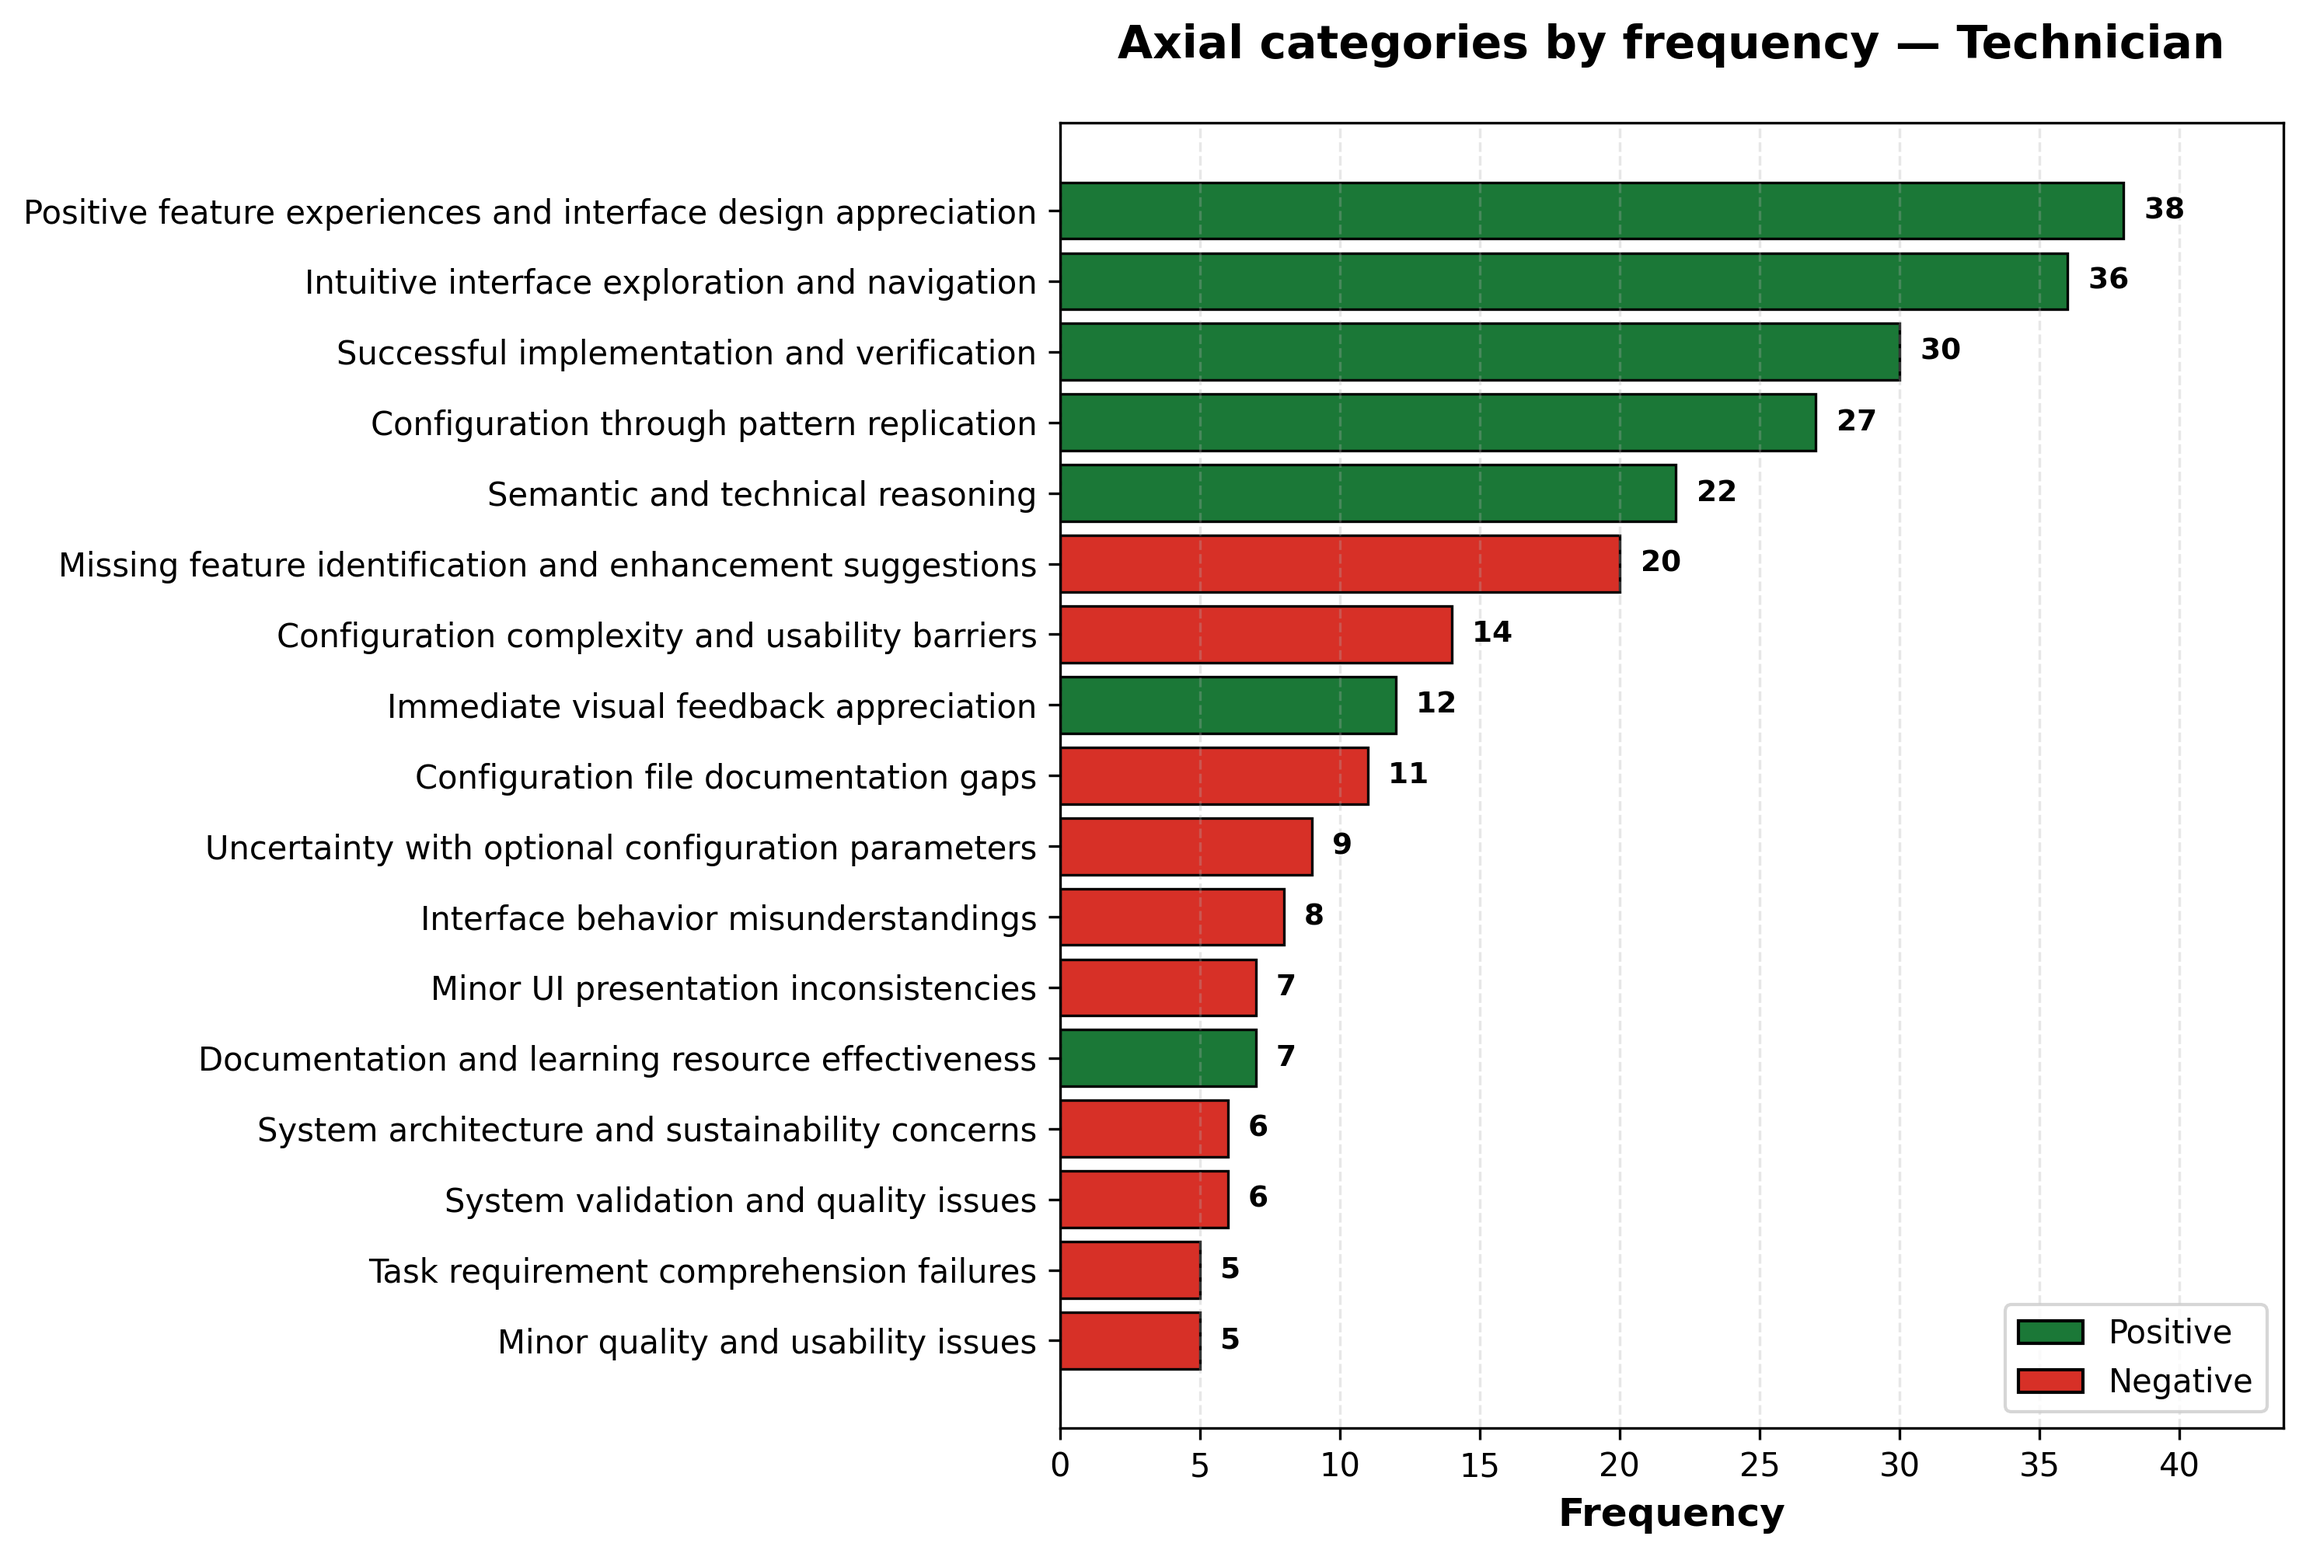
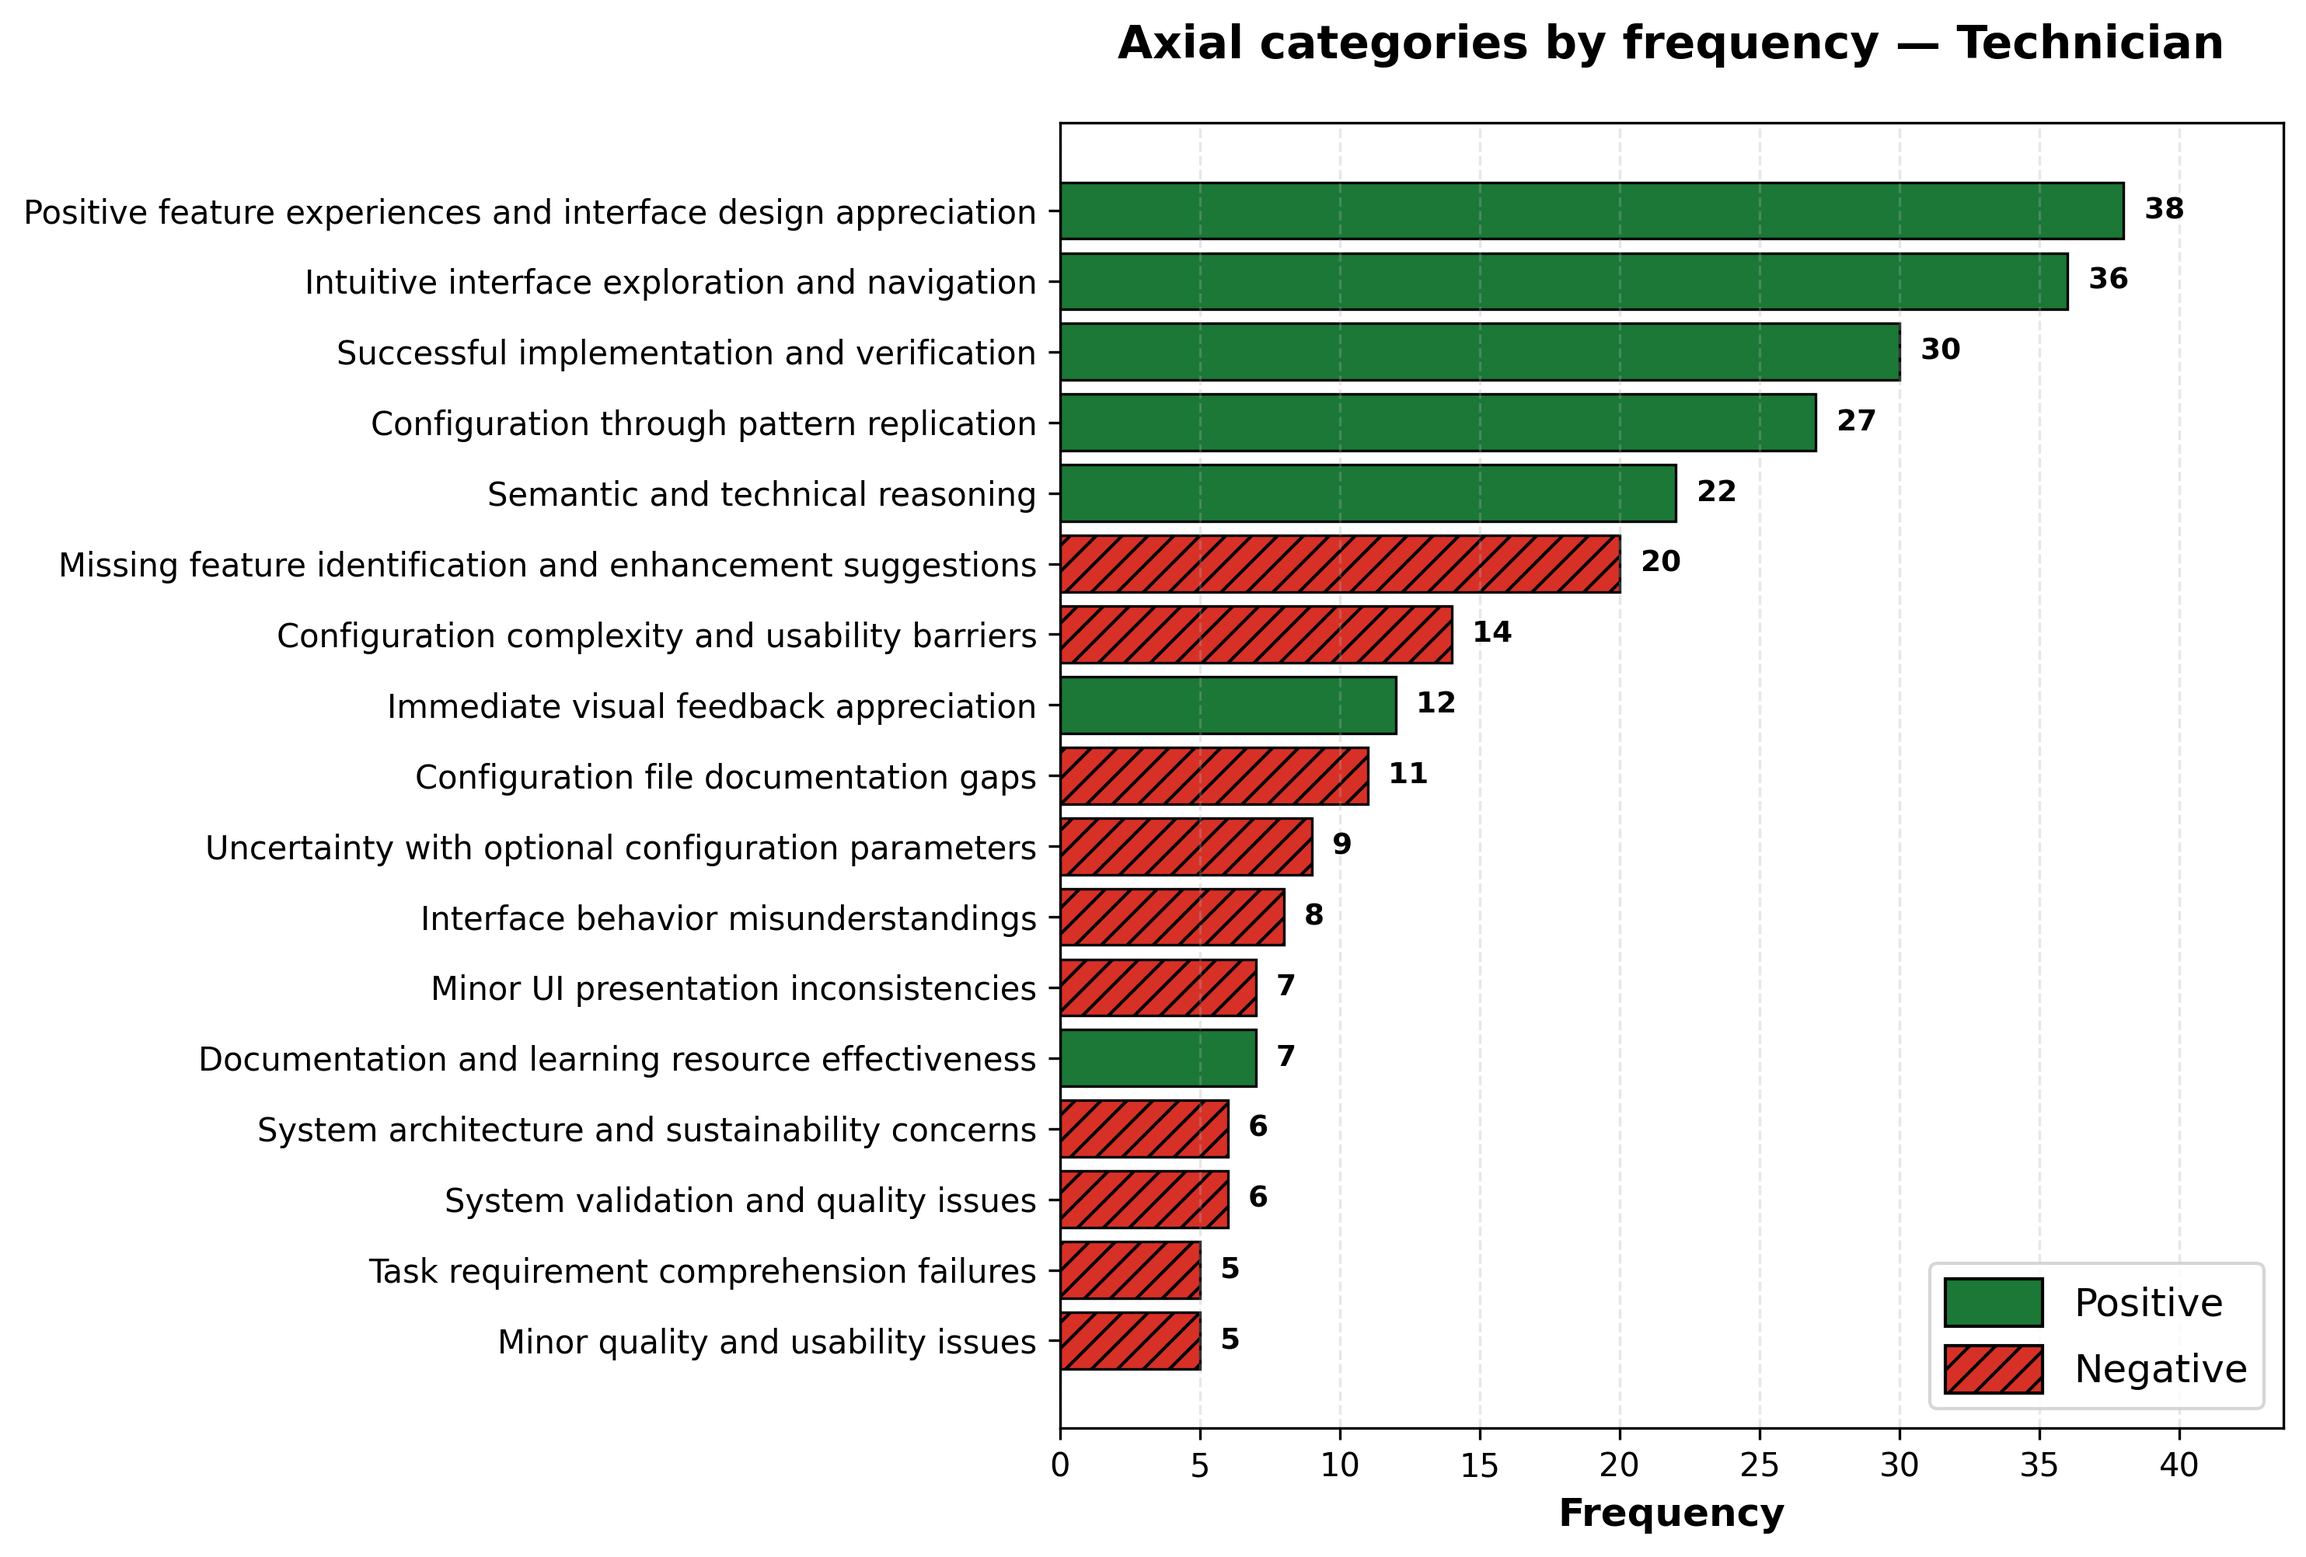
refactor(user-testing): extract plot utilities and improve B&W readability

diff --git a/user_testing/analysis_software/task_plots.py b/user_testing/analysis_software/task_plots.py
@@ -7,6 +7,7 @@ from matplotlib import patheffects as pe
 import numpy as np
 import pandas as pd
 
+from plot_utils import STATUS_COLORS, STATUS_HATCHES, STATUS_LABELS, USER_TYPE_COLORS
 from stats_utils import compact_outliers
 
 
@@ -72,30 +73,6 @@ def plot_success_rates(df: pd.DataFrame, output_dir: Path):
         return
     task_label_map = _task_key_to_label_map(df)
 
-    status_colors = {
-        'complete': '#1b7837',
-        'partial': '#fdae61',
-        'success_timeout': '#4575b4',
-        'failed_misunderstanding': '#d73027',
-        'failed_bug': '#7b3294'
-    }
-
-    status_hatches = {
-        'complete': '',
-        'partial': '///',
-        'success_timeout': '|||',
-        'failed_misunderstanding': 'xxx',
-        'failed_bug': '\\\\\\'
-    }
-
-    status_labels = {
-        'complete': 'Complete',
-        'partial': 'Partial',
-        'success_timeout': 'Success: Timeout',
-        'failed_misunderstanding': 'Failed: Misunderstanding',
-        'failed_bug': 'Failed: Bug'
-    }
-
     # Compute status counts by user_type and task_key
     group_cols = ["user_type", "task_key"]
 
@@ -148,10 +125,10 @@ def plot_success_rates(df: pd.DataFrame, output_dir: Path):
         for status in status_order:
             values = sub[status].values
             bars = ax.bar(x, values, bottom=bottom,
-                         color=status_colors[status],
-                         label=status_labels[status],
+                         color=STATUS_COLORS[status],
+                         label=STATUS_LABELS[status],
                          edgecolor='black', linewidth=1.0,
-                         hatch=status_hatches[status])
+                         hatch=STATUS_HATCHES[status])
 
             # Set hatch color to be less intrusive
             for bar in bars:
@@ -206,13 +183,6 @@ def plot_duration_distributions(df: pd.DataFrame, duration_stats: dict, output_d
     task_label_map = _task_key_to_label_map(df)
 
     user_types = sorted(duration_df['user_type'].unique().tolist())
-    n_user_types = len(user_types)
-
-    # Define colors for user types (consistent with SUS)
-    user_type_colors = {
-        'end_user': 'lightblue',
-        'technician': 'lightcoral'
-    }
 
     # Create separate figure for each user type
     for user_type in user_types:
@@ -299,7 +269,7 @@ def plot_duration_distributions(df: pd.DataFrame, duration_stats: dict, output_d
                                          markeredgecolor='black', markersize=6))
 
         # Color boxes based on user type
-        box_color = user_type_colors[user_type]
+        box_color = USER_TYPE_COLORS[user_type]
         for patch in bp['boxes']:
             patch.set_facecolor(box_color)
             patch.set_alpha(0.7)

diff --git a/user_testing/analysis_software/grounded_theory_plots.py b/user_testing/analysis_software/grounded_theory_plots.py
@@ -7,14 +7,9 @@ import matplotlib.patches as mpatches
 import matplotlib.pyplot as plt
 import pandas as pd
 
+from plot_utils import SENTIMENT_COLORS, SENTIMENT_HATCHES
+
 warnings.filterwarnings('ignore')
-
-
-# Color palettes
-SENTIMENT_COLORS = {
-    'positive': '#1b7837',  # Green
-    'negative': '#d73027'   # Red
-}
 
 
 def load_axial_codes(user_type: str, repo_root: Path) -> Dict:
@@ -64,11 +59,16 @@ def create_horizontal_bar_chart(user_type: str, repo_root: Path, output_dir: Pat
     # Create plot
     fig, ax = plt.subplots(figsize=(10, max(6, len(df) * 0.4)))
 
-    # Map sentiments to colors
+    # Map sentiments to colors and hatch patterns
     colors = [SENTIMENT_COLORS[s] for s in df['sentiment']]
+    hatches = [SENTIMENT_HATCHES[s] for s in df['sentiment']]
 
-    # Create horizontal bars
-    ax.barh(df['category'], df['frequency'], color=colors, edgecolor='black', linewidth=0.8)
+    # Create horizontal bars with hatch patterns for black & white readability
+    bars = ax.barh(df['category'], df['frequency'], color=colors, edgecolor='black', linewidth=0.8)
+
+    # Apply hatch patterns to each bar
+    for bar, hatch in zip(bars, hatches):
+        bar.set_hatch(hatch)
 
     # Add frequency labels at the end of each bar
     for i, (freq, cat) in enumerate(zip(df['frequency'], df['category'])):
@@ -83,13 +83,16 @@ def create_horizontal_bar_chart(user_type: str, repo_root: Path, output_dir: Pat
                 fontsize=14, fontweight='bold', pad=20)
     ax.grid(axis='x', alpha=0.3, linestyle='--')
 
-    # Create legend
+    # Create legend with hatch patterns for black & white readability
     legend_elements = [
-        mpatches.Patch(facecolor=SENTIMENT_COLORS['positive'], edgecolor='black', label='Positive'),
-        mpatches.Patch(facecolor=SENTIMENT_COLORS['negative'], edgecolor='black', label='Negative'),
+        mpatches.Patch(facecolor=SENTIMENT_COLORS['positive'], edgecolor='black',
+                      hatch=SENTIMENT_HATCHES['positive'], label='Positive'),
+        mpatches.Patch(facecolor=SENTIMENT_COLORS['negative'], edgecolor='black',
+                      hatch=SENTIMENT_HATCHES['negative'], label='Negative'),
     ]
 
-    ax.legend(handles=legend_elements, loc='lower right', frameon=True, fontsize=10)
+    ax.legend(handles=legend_elements, loc='lower right', frameon=True, fontsize=12,
+             handlelength=2.5, handleheight=1.5)
 
     plt.tight_layout()
     output_file = output_dir / f'{user_type}_axial_categories.png'

diff --git a/user_testing/analysis_software/plot_utils.py b/user_testing/analysis_software/plot_utils.py
@@ -1,0 +1,45 @@
+"""
+Common plotting utilities for consistent visualization across analysis modules.
+
+This module provides color schemes, hatch patterns, and helper functions to ensure
+that plots are readable both in color and when printed in black and white.
+"""
+
+STATUS_COLORS = {
+    'complete': '#1b7837',
+    'partial': '#fdae61',
+    'success_timeout': '#4575b4',
+    'failed_misunderstanding': '#d73027',
+    'failed_bug': '#7b3294'
+}
+
+STATUS_HATCHES = {
+    'complete': '',
+    'partial': '///',
+    'success_timeout': '|||',
+    'failed_misunderstanding': 'xxx',
+    'failed_bug': '\\\\\\'
+}
+
+STATUS_LABELS = {
+    'complete': 'Complete',
+    'partial': 'Partial',
+    'success_timeout': 'Success: Timeout',
+    'failed_misunderstanding': 'Failed: Misunderstanding',
+    'failed_bug': 'Failed: Bug'
+}
+
+SENTIMENT_COLORS = {
+    'positive': '#1b7837',  # Green
+    'negative': '#d73027'   # Red
+}
+
+SENTIMENT_HATCHES = {
+    'positive': '',      # No hatch for positive (solid fill)
+    'negative': '///'    # Diagonal lines for negative
+}
+
+USER_TYPE_COLORS = {
+    'end_user': 'lightblue',
+    'technician': 'lightcoral'
+}
